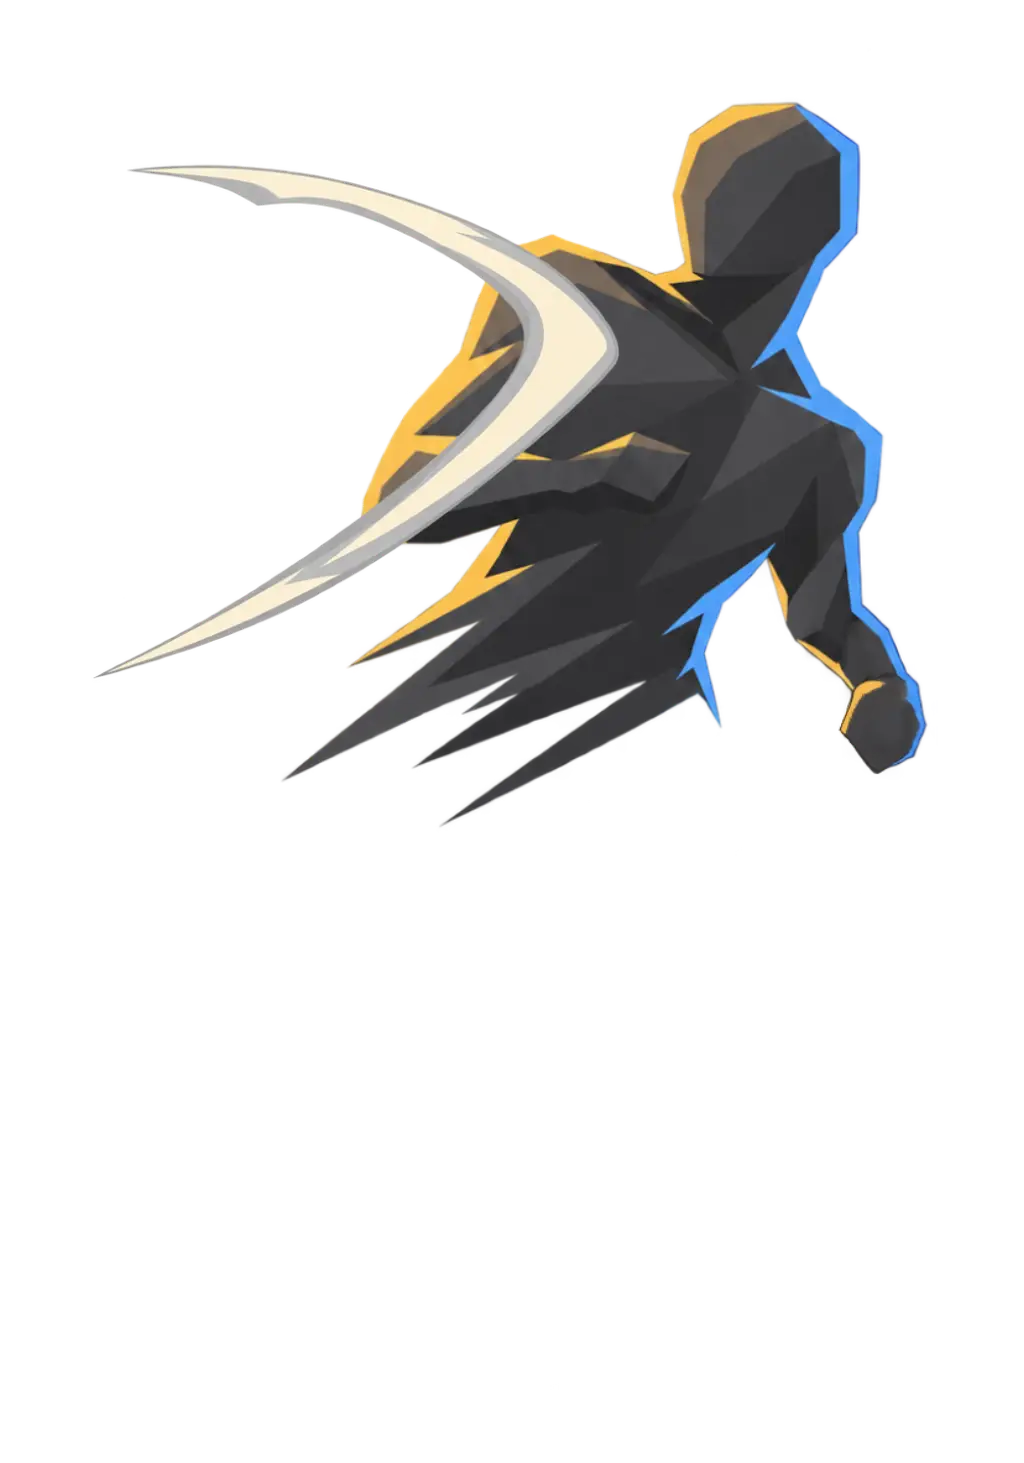
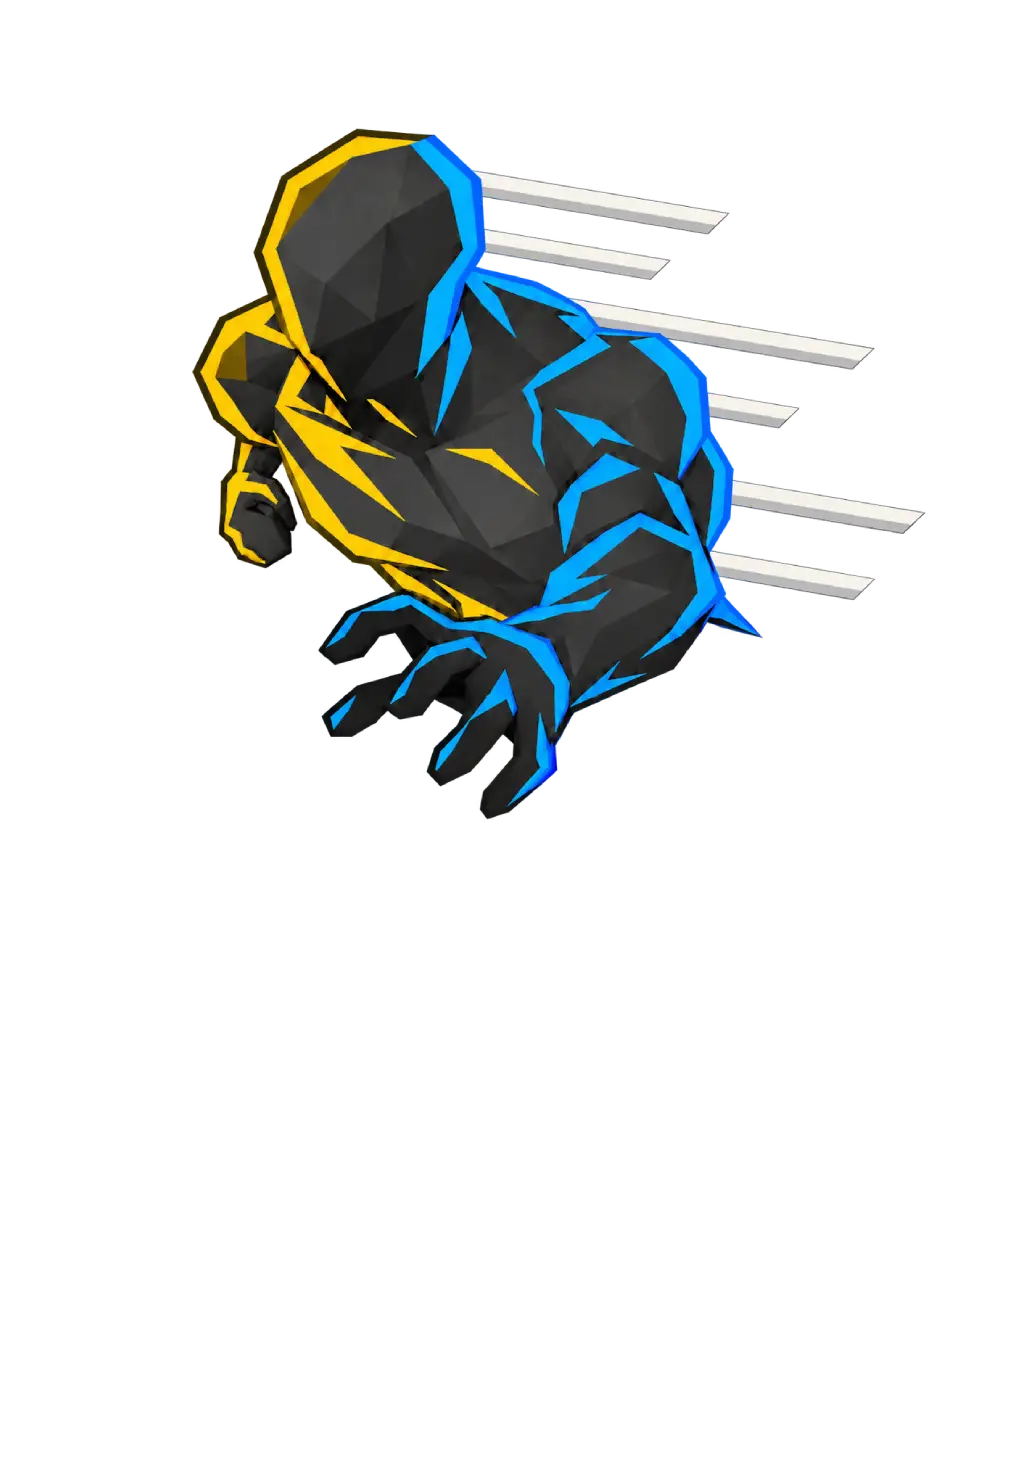
Le cuir ne bloque plus : Agilite (0 PA, +1 PA) et Esquive
Keko : « on va supprimer armure legere. L'armure de cuir donne desormais :
Agilite : coute 0 : Gagnez 1 PA / Esquive : remplace agilite actuelle ». Plus
Esquive.webp ajoute et Agilite.webp modifie.

Les deux moities du cuir disent enfin la meme chose que sa stat — un point
d'action — la ou une Armure legere a cinq de bloc ne disait rien de lui.

LA CARTE D'ESQUIVE REPREND LE NOM DE SON MOT-CLE, et c'est un retour en arriere
assume : le projet avait tranche l'inverse (« la carte nomme le GESTE, le mot-cle
nomme ce qu'on gagne »). Ce qui a change, c'est que « Agilite » est maintenant
PRIS — un nom ne peut pas designer deux cartes du meme set, et entre une
repetition et une collision, la repetition se lit.

ET LE GAIN DE PA N'ETAIT PAS PLAFONNE COMME IL FAUT. L'Agilite est la PREMIERE
carte a employer l'effet `energie`, et il bornait au maximum du tour : jouee
reserve pleine — donc toujours — elle ne donnait rien du tout. Une carte qui dit
« gagne 1 PA » doit donner 1 PA. Le maximum dit ce que le TOUR rend ; une carte
qui en donne en plus est une exception au tour, et le plafond ne protegeait rien
puisque l'energie non depensee est perdue de toute facon.

CE QUE LA MESURE DIT, ET C'EST SEVERE : le set coute 16 points de survie sur le
deck de depart (38 % contre 54), et le chiffre de l'Agilite n'y est pour rien —
une sonde a +20 PA par carte donne exactement le meme resultat. L'energie n'est
pas le goulot de ce deck. Sur un deck CHER (Espadon) elle reprend sa place : a
[…]

Changed region(s): [[0.0938, 0.0615, 0.9062, 0.5844]]

diff --git a/src/logic/armes.ts b/src/logic/armes.ts
@@ -465,36 +465,24 @@ export const RONDACHE: Arme = {
  * où une armure voudra du gros bloc brut, il n'y aura qu'à le reposer.*
  */
 
-/**
- * **PROTECTION ET ESQUIVE : le set du Plastron de cuir.** Composé par Keko.
+/*
+ * L'ARMURE LÉGÈRE A DISPARU, et il faut savoir pourquoi pour ne pas la
+ * remettre. Keko : « on va supprimer armure légère ».
  *
- * *Deux cartes, deux réponses à la salve* — l'une sûre et chiffrée, l'autre au
- * hasard. L'Esquive n'a pas de chiffre : **elle ne se compare pas, elle se
- * parie.**
+ * Elle valait 5 de bloc pour 1 PA — *le barème de référence du jeu* — et c'est
+ * ce qui la condamnait : **elle ne disait rien du cuir.** Une armure dont la
+ * stat parle de points d'action n'a pas besoin d'une carte qui parle de bloc,
+ * et c'est la même raison qui avait fait retirer la Protection au tissu : *« ça
+ * protège que dal c'est bizarre »*, puis la Barrière à sa place.
  *
- * **ET ELLE A ABSORBÉ LA GARDE, qui était la MÊME CARTE.** Toutes deux
- * coûtaient 1 PA pour 5 de bloc : *deux noms pour un seul objet*, et je ne
- * l'avais pas vu en composant celle-ci — j'avais écrit « la Protection reprend
- * le barème de la Garde » sans voir que c'était littéralement elle.
- *
- * Ça s'est découvert en câblant les quatre dessins de Keko, et c'est ce qui
- * les rend gratuits : **remplacer la Garde par la Protection ne bouge pas un
- * chiffre**, donc trois armures sur quatre reçoivent leur matière sans qu'on
- * touche au réglage. *Un doublon ne se voit que le jour où l'on cherche à
- * distinguer ce qu'il confond.*
- *
- * *Les coûts sont des placeholders* : Keko a donné les effets, pas les prix.
+ * Ses quatre dessins par matière restent au dépôt (`Protection tissu / cuir /
+ * plate.webp`), et le mécanisme d'héritage de matière avec eux : **le jour où
+ * une armure redonnera du bloc par matière, il n'y aura qu'une entrée de table
+ * à reposer.**
  */
-const PROTECTION: Modele = {
-  nom: 'Armure légère',
-  type: 'combat',
-  cout: 1,
-  degats: 0,
-  effets: [{ type: 'bloc', montant: 5 }],
-}
 
 /**
- * LE BLINDAGE : la Protection de la PLATE, sous son propre nom.
+ * L'ARMURE LOURDE : le bloc de la PLATE, sous son propre nom.
  *
  * Demandé par Keko : « ce serait cool de renommer "protection" de l'armure de
  * plate en "blindage" ou un truc du genre, pour bien différencier les deux
@@ -581,25 +569,53 @@ const BLINDAGE: Modele = {
 }
 
 /**
- * **LA CARTE S'APPELLE AGILITÉ, L'ÉTAT QU'ELLE DONNE S'APPELLE ESQUIVE.**
- * Renommée par Keko.
+ * **LA CARTE REPREND LE NOM DE SON MOT-CLÉ, et c'est un retour en arrière
+ * assumé.** Keko : « Esquive : remplace agilité actuelle ».
  *
- * *C'est le couple Projection / étourdissement, repris ici* : **la carte nomme
- * le GESTE, le mot-clé nomme ce qu'on gagne.** Une carte qui portait le nom de
- * son propre mot-clé le disait deux fois — « Esquive : gagne esquive » — et
- * surtout elle brouillait la seule chose que le jaune du cartouche promet :
- * *qu'il y a une définition à aller lire ailleurs.*
+ * *Le projet avait tranché l'inverse* — « la carte nomme le GESTE, le mot-clé
+ * nomme ce qu'on gagne », le couple Projection / étourdissement — et
+ * l'objection d'alors était qu'une carte portant le nom de son mot-clé le dit
+ * deux fois : « Esquive / Gagne esquive ».
  *
- * Le type interne, lui, ne bouge pas (`esquive`) : il ne se lit nulle part à
+ * **Ce qui a changé, c'est que « Agilité » est désormais pris** par la carte de
+ * point d'action, et *un nom ne peut pas désigner deux cartes du même set.*
+ * Entre une répétition et une collision, la répétition se lit ; la collision,
+ * non.
+ *
+ * Le type interne ne bouge pas (`esquive`) : il ne se lit nulle part à
  * l'écran, et *un renommage traversant `logic/` pour un mot ne vaut pas son
  * risque* — la règle déjà tenue par `energie` et `tresor`.
  */
 const ESQUIVE: Modele = {
-  nom: 'Agilité',
+  nom: 'Esquive',
   type: 'combat',
   cout: 1,
   degats: 0,
   effets: [{ type: 'esquive' }],
+}
+
+/**
+ * L'AGILITÉ : UN POINT D'ACTION, POUR RIEN.
+ *
+ * Composée par Keko avec le set du cuir : « Agilité : coûte 0, gagnez 1 PA ».
+ *
+ * *C'est la stat du cuir dite par le deck* — l'armure qui donne +1 PA donne
+ * aussi une carte qui en rend un. **Les deux moitiés de son identité disent la
+ * même chose**, exactement comme la Robe, dont la Barrière compte la main que
+ * sa stat agrandit.
+ *
+ * **ELLE EST GRATUITE, DONC ELLE NE DILUE PRESQUE PAS** : jouée, elle rend le
+ * point qu'elle n'a pas coûté — *ce qu'elle prend vraiment, c'est une place de
+ * main*, et c'est le seul prix que le concept lui réclame.
+ *
+ * **Son chiffre n'est pas calibré** : Keko a donné l'effet, pas le barème.
+ */
+const AGILITE: Modele = {
+  nom: 'Agilité',
+  type: 'combat',
+  cout: 0,
+  degats: 0,
+  effets: [{ type: 'energie', montant: 1 }],
 }
 
 /**
@@ -725,8 +741,16 @@ export const PLASTRON_DE_CUIR: Armure = {
   matiere: 'cuir',
   pv: 15,
   pa: 1,
+  // **L'ARMURE LÉGÈRE EST PARTIE, et le cuir ne bloque plus du tout.** Tranché
+  // par Keko : « on va supprimer armure légère ; l'armure de cuir donne
+  // désormais Agilité (coûte 0, gagnez 1 PA) et Esquive ».
+  //
+  // *Elle rejoint le tissu sur ce point* — plus aucune carte de bloc franc —
+  // mais par l'autre bout : **le tissu voit plus, le cuir JOUE plus.** Les deux
+  // moitiés du cuir disent désormais la même chose que sa stat, un point
+  // d'action de plus, là où une Protection à cinq ne disait rien de lui.
   set: [
-    { modele: PROTECTION, nombre: 1 },
+    { modele: AGILITE, nombre: 1 },
     { modele: ESQUIVE, nombre: 1 },
   ],
 }

diff --git a/src/ui/art.ts b/src/ui/art.ts
@@ -52,7 +52,7 @@ function cle(nom: string): string {
 // de la Garde, qu'elle a absorbée (elles étaient la même carte, 1 PA pour 5 de
 // bloc). Ça ne sert qu'au jeu 2D et au fond du 3D : l'image de Keko recouvre le
 // SVG partout ailleurs.
-const ALIAS: Record<string, string> = { taille: 'taillade', 'armure-legere': 'garde' }
+const ALIAS: Record<string, string> = { taille: 'taillade' }
 
 /** L'URL de l'illustration d'un modèle, ou celle du repli. */
 export function art(nom: string): string {
@@ -109,6 +109,7 @@ const IMAGES: Record<string, string> = {
   'coup-de-bouclier': 'Coup de bouclier.webp',
   projection: 'Projection.webp',
   agilite: 'Agilité.webp',
+  esquive: 'Esquive.webp',
   concentration: 'Concentration.webp',
   barriere: 'Barriere.webp',
   // L'ARMURE LOURDE PORTE LE DESSIN DE LA PROTECTION DE PLATE : *le nom du
@@ -181,15 +182,7 @@ const IMAGES_PAR_RARETE: Record<string, Record<string, string>> = {
  * plate ? » Son dessin reste au dépôt — **il resservira le jour où une maille
  * revient en variante rare**, et une entrée suffira à la reposer.
  */
-const PROTECTIONS: Record<string, string> = {
-  tissu: 'Protection tissu.webp',
-  cuir: 'Protection cuir.webp',
-  plate: 'Protection plate.webp',
-}
-
-const IMAGES_PAR_MATIERE: Record<string, Record<string, string>> = {
-  'armure-legere': PROTECTIONS,
-}
+const IMAGES_PAR_MATIERE: Record<string, Record<string, string>> = {}
 
 /**
  * LE DOS DE CARTE, dessiné par Keko — *cadre et logo central, rien d'autre.*

diff --git a/src/ui/texte-carte.ts b/src/ui/texte-carte.ts
@@ -243,7 +243,16 @@ export function lignes(carte: Carte, valeurAPart = false, armure?: number): stri
     // POINTS D'ACTION, ET PAS « ÉNERGIE » : le mot renvoie au TEMPS, et c'est
     // ce que Keko veut dire — *plus une carte coûte, plus l'action est longue
     // et puissante.* Le code garde `energie` partout, c'est un nom interne.
-    if (e.type === 'energie') l.push(`Gagne <b>+${e.montant}</b> points d'action`)
+    //
+    // **ET IL S'ÉCRIT AVEC L'ORBE**, comme la remise de l'Estoc : *le même
+    // symbole partout*, celui du coin de la carte et du coin de l'écran. Keko
+    // l'a demandé en composant l'Agilité : « Gagnez 1 PA » — et **« PA » n'est
+    // pas un mot, c'est déjà un symbole écrit en lettres**, donc le dessin ne
+    // retire rien au sens.
+    //
+    // *Ça corrige un accord faux au passage* : la ligne disait « +1 pointS
+    // d'action ». **Un jeton n'a pas de pluriel à accorder.**
+    if (e.type === 'energie') l.push(`Gagne {pa:${e.montant}}`)
     if (e.type === 'degatsTous') l.push(`Inflige <d><b>${e.montant}</b></d> à chaque ennemi`)
     // LA RIPOSTE DIT SA DURÉE, là où le bloc ne la dit plus : *le bloc tombe à
     // chaque fin de tour, c'est une règle du jeu ; la riposte, elle, est une

diff --git a/src/logic/combat.ts b/src/logic/combat.ts
@@ -648,7 +648,16 @@ function appliquerEffet(etat: EtatCombat, effet: Effet, cible: number, rng: Rng)
       etat.pv = Math.min(etat.pvMax, etat.pv + effet.montant)
       break
     case 'energie':
-      etat.energie = Math.min(etat.energieMax, etat.energie + effet.montant)
+      // **ELLE N'EST PAS PLAFONNÉE PAR LE MAXIMUM**, et c'est l'Agilité qui l'a
+      // montré : première carte du jeu à employer cet effet, elle ne donnait
+      // RIEN quand on la jouait avec la réserve pleine — *donc toujours, un bot
+      // comme un joueur la jouant en premier.* **Une carte qui dit « gagne 1 PA »
+      // doit donner 1 PA**, sinon elle ment.
+      //
+      // *Le maximum dit ce que le TOUR rend* ; une carte qui en donne en plus
+      // est précisément une exception au tour. Et le plafond ne protégeait rien :
+      // **l'énergie non dépensée est perdue à la fin du tour de toute façon.**
+      etat.energie += effet.montant
       break
     case 'bloc':
       etat.bloc += effet.montant

diff --git a/CLAUDE.md b/CLAUDE.md
@@ -1814,7 +1814,7 @@ prend une ressource différente :
 | | stats | set | ce qu'on va y chercher |
 |---|---|---|---|
 | **Robe** (tissu) | **+1 carte en main** | **Concentration** + **Barrière** | **voir** plus |
-| **Plastron de cuir** (départ) | +15 ♥, **+1 PA** | Armure légère + **Agilité** | **jouer** plus |
+| **Plastron de cuir** (départ) | +15 ♥, **+1 PA** | **Agilité** + Esquive | **jouer** plus |
 | **Armure de plate** | **+30 ♥** | **Armure lourde** + **Blindage** | **encaisser** |
 
 **L'ÉCHELLE DES PV EST 0 / 15 / 30, et elle est de Keko.** Mon balayage avait
@@ -2208,6 +2208,74 @@ celui de la Barrière est celui du bloc : empêcher la salve d'arriver.
 payée sur les étiquettes de la vitrine du zoom. À relire au prochain verbe
 défensif.
 
+
+
+#### LE CUIR NE BLOQUE PLUS : Agilité + Esquive
+
+Tranché par Keko : « on va supprimer armure légère ; l'armure de cuir donne
+désormais Agilité (coûte 0, gagnez 1 PA) et Esquive (remplace agilité
+actuelle) ».
+
+*Les deux moitiés du cuir disent enfin la même chose que sa stat* — un point
+d'action — là où une Armure légère à cinq de bloc ne disait rien de lui. **Il
+rejoint le tissu sur ce point, par l'autre bout** : le tissu voit plus, le cuir
+JOUE plus, et aucun des deux ne pare.
+
+**LA CARTE D'ESQUIVE REPREND LE NOM DE SON MOT-CLÉ, et c'est un retour en
+arrière assumé.** Le projet avait tranché l'inverse — « la carte nomme le GESTE,
+le mot-clé nomme ce qu'on gagne », le couple Projection / étourdissement — et
+l'objection d'alors tient toujours : une carte qui porte le nom de son mot-clé
+le dit deux fois, « Esquive / Gagne esquive ». *Ce qui a changé, c'est que
+« Agilité » est maintenant PRIS*, et **un nom ne peut pas désigner deux cartes
+du même set** : entre une répétition et une collision, la répétition se lit.
+
+**ET LE GAIN DE PA N'ÉTAIT PAS PLAFONNÉ COMME IL FAUT.** L'Agilité est la
+PREMIÈRE carte du jeu à employer l'effet `energie`, et il bornait au maximum du
+tour : jouée réserve pleine — *donc toujours, par un bot comme par un joueur qui
+la joue en premier* — **elle ne donnait rien du tout.** Une carte qui dit
+« gagne 1 PA » doit donner 1 PA, sinon elle ment. *Le maximum dit ce que le TOUR
+rend* ; une carte qui en donne en plus est précisément une exception au tour, et
+le plafond ne protégeait rien puisque **l'énergie non dépensée est perdue de
+toute façon.**
+
+**Elle s'écrit avec l'ORBE** — « Gagne ⬤1 » — comme la remise de l'Estoc : *le
+même symbole partout*. Ça corrige un accord faux au passage, la ligne disant
+« +1 pointS d'action ».
+
+#### CE QUE LA MESURE DIT, ET C'EST SÉVÈRE
+
+400 descentes au fond, trésors pris, même bot :
+
+| set du cuir | Glaive + Rondache (bon marché) | Espadon (cher) |
+|---|---|---|
+| Armure légère + Esquive (avant) | **54 %** | 18 % |
+| Agilité +1 PA + Esquive | 38 % | 14 % |
+| Agilité +2 PA + Esquive | 38 % | **23 %** |
+
+*Voisines* : tissu 63 %, plate 55 %.
+
+**LE SET COÛTE SEIZE POINTS DE SURVIE SUR LE DECK DE DÉPART**, et le chiffre de
+l'Agilité n'y est pour rien : **une sonde à +20 PA par carte donne exactement le
+même résultat.** *L'énergie n'est pas le goulot de ce deck* — la main se vide
+avant la réserve, et c'est précisément ce que la mesure « +1 PA contre +1 carte
+en main » avait établi : **bon marché, c'est la main ; cher, c'est l'énergie.**
+
+**Sur un deck CHER, elle reprend sa place** : à +2 PA elle dépasse l'Armure
+légère (23 % contre 18). *C'est exactement l'appariement arme × armure* que le
+projet cherche — mais il faut savoir qu'il se paie sur le chargement de départ,
+qui est celui que tout le monde voit en premier.
+
+**Le chiffre reste celui de Keko (+1)**, qui a donné l'effet et non le barème.
+*À rouvrir* : +2 au minimum pour que la carte existe, et il restera à décider si
+le cuir a le droit d'être l'armure qu'on ne prend qu'avec une arme chère.
+
+**ET LE BOT A ENCORE MASQUÉ LA MESURE UNE FOIS.** Sa liste de priorités ne
+connaissait pas `energie`, donc les trois variantes rendaient le même chiffre —
+*le même piège que la Cuirasse deux commits plus tôt.* **Une liste de cas est
+une liste qu'on oublie de compléter**, et celle d'un bot de mesure se relit à
+chaque verbe neuf. Ce qui a permis de trancher ensuite entre « bot aveugle » et
+« vrai résultat » : **une sonde à valeur absurde** (+20 PA). Si rien ne bouge
+encore, ce n'est plus le bot.
 
 #### LE BLINDAGE : le troisième profil défensif, et c'est une RÉSISTANCE
 
